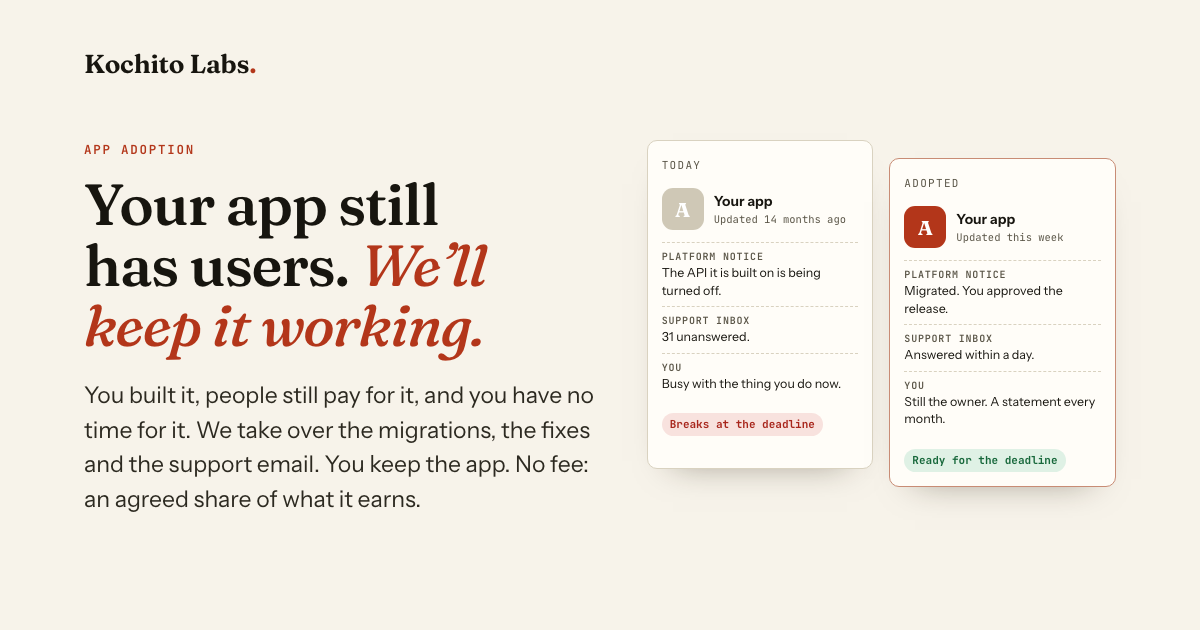
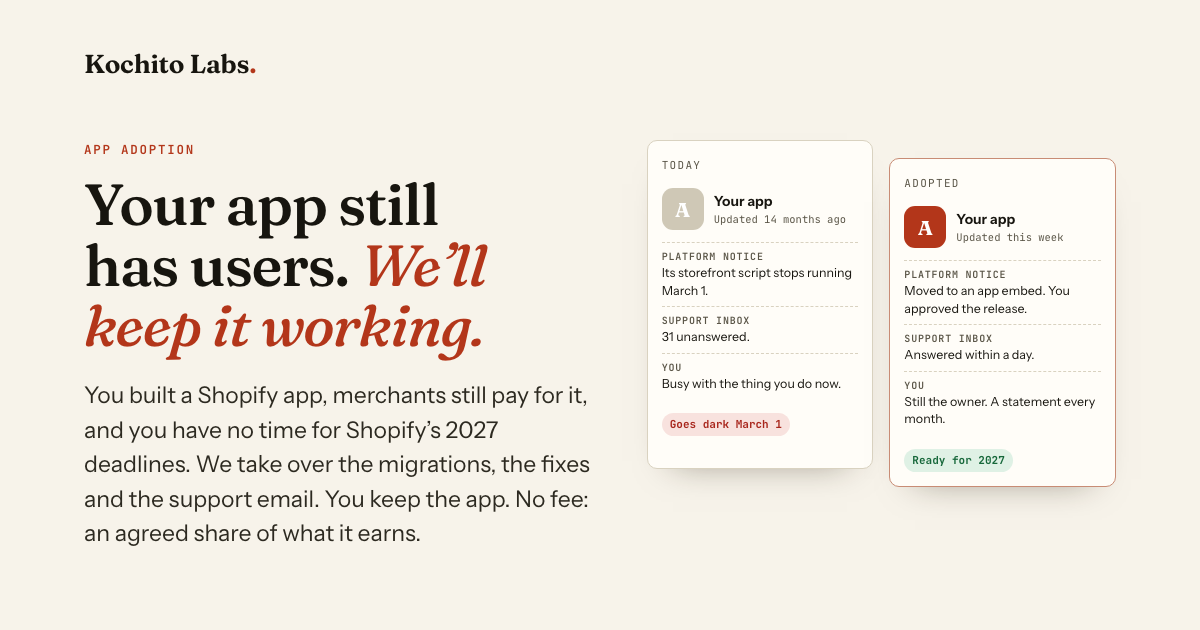
kochito /apps: Shopify's real dates, and Shopify only. Read from Shopify's developer changelog: since October 1, 2026 no app can create script tags; January 1, 2027 public apps on non-expiring offline tokens are delisted; March 1 script tags stop running on storefronts; April 1 the old tokens are re
Claude-Session: https://claude.ai/code/session_012SXcnn2YuX2WXNrf6GerJQ

diff --git a/src/app/kochito/apps/page.tsx b/src/app/kochito/apps/page.tsx
@@ -7,8 +7,8 @@ import { Foot, Top } from '../Chrome'
 // has users and no longer has their time: we keep it working for a share of
 // what it earns. Facts on this page are sourced in apps/venture (private
 // notes); change them there first.
-const TITLE = 'We keep your app working, for a share of what it earns'
-const DESCRIPTION = 'You built an app, people still use it, and you have no time for it. We do the platform migrations, the fixes and the support. No fee: a share of revenue, and you keep the app.'
+const TITLE = 'We keep your Shopify app working, for a share of what it earns'
+const DESCRIPTION = 'You built a Shopify app, merchants still pay for it, and you have no time for it. We do the 2027 migrations, the fixes and the support. No fee: a share of revenue, and you keep the app.'
 
 export const metadata: Metadata = {
   title: 'App adoption',
@@ -30,18 +30,18 @@ export default function AppAdoption() {
               Your app still has users. <em>We’ll keep it working.</em>
             </h1>
             <p className="kl-lede">
-              You built it, people still pay for it, and you have no time for it. We take over the migrations, the fixes and the support email. You keep the app. No fee: an agreed share of what it earns.
+              You built a Shopify app, merchants still pay for it, and you have no time for Shopify’s 2027 deadlines. We take over the migrations, the fixes and the support email. You keep the app. No fee: an agreed share of what it earns.
             </p>
             <LeadForm
               page="apps"
               emailPlaceholder="you@yourapp.com"
               detailLabel="Link to the app"
               detailPlaceholder="https://apps.shopify.com/your-app"
-              detailHint="A Shopify App Store or Apple App Store link. Leave it empty if you would rather talk first."
+              detailHint="Your Shopify App Store listing. Leave it empty if you would rather talk first."
               button="Check my app, free"
               done="Your app’s report will be in your inbox within one business day."
             />
-            <p className="kl-fine">The report is yours whether or not you ever talk to us again: what breaks at the next platform deadline, what reviewers say is broken now, and what fixing it involves.</p>
+            <p className="kl-fine">The report is yours whether or not you ever talk to us again: which of Shopify’s dates hit your app, what reviewers say is broken now, and what fixing it involves.</p>
           </div>
 
           <figure className="kl-pic">
@@ -60,7 +60,7 @@ export default function AppAdoption() {
                 <ul className="kl-log">
                   <li>
                     <b>Platform notice</b>
-                    The API it is built on is being turned off.
+                    Its storefront script stops running March 1.
                   </li>
                   <li>
                     <b>Support inbox</b>
@@ -71,7 +71,7 @@ export default function AppAdoption() {
                     Busy with the thing you do now.
                   </li>
                 </ul>
-                <span className="kl-chip bad">Breaks at the deadline</span>
+                <span className="kl-chip bad">Goes dark March 1</span>
               </div>
               <div className="kl-sheet kl-after">
                 <p className="kl-sheet-tag">
@@ -87,7 +87,7 @@ export default function AppAdoption() {
                 <ul className="kl-log">
                   <li>
                     <b>Platform notice</b>
-                    Migrated. You approved the release.
+                    Moved to an app embed. You approved the release.
                   </li>
                   <li>
                     <b>Support inbox</b>
@@ -98,7 +98,7 @@ export default function AppAdoption() {
                     Still the owner. A statement every month.
                   </li>
                 </ul>
-                <span className="kl-chip good">Ready for the deadline</span>
+                <span className="kl-chip good">Ready for 2027</span>
               </div>
             </div>
             <figcaption>A drawing, not a customer. The free report on your own app says what is true for it.</figcaption>
@@ -125,6 +125,29 @@ export default function AppAdoption() {
                 <p>You give access to the code. Every change is a pull request you can read, and nothing ships until you say so. Support email forwards to us.</p>
               </li>
             </ol>
+          </div>
+        </section>
+
+        <section className="kl-band" aria-labelledby="dates">
+          <div className="kl-wrap kl-two">
+            <div>
+              <h2 id="dates">Shopify’s dates</h2>
+              <p>Two changes land in early 2027, and an app nobody is maintaining will miss both. Since October 1, 2026, apps can no longer create script tags, so an app that depends on them has been broken for every new install since then.</p>
+              <p>Merchants on a broken app keep being billed until they notice. Then come the one-star reviews and the cancellations. Both migrations are ordinary code work; they just need someone to do them.</p>
+            </div>
+            <div className="kl-fact">
+              <dl>
+                <dt>January 1, 2027</dt>
+                <dd>Public apps still on non-expiring offline access tokens are delisted and blocked from new installs.</dd>
+                <dt>March 1, 2027</dt>
+                <dd>Shopify stops running script tags on storefronts. The replacement is an app embed.</dd>
+                <dt>April 1, 2027</dt>
+                <dd>Admin API calls made with non-expiring tokens are refused.</dd>
+              </dl>
+              <p className="src">
+                Sources: Shopify’s developer changelog, <a href="https://shopify.dev/changelog/online-store-script-tags-deprecation">script tags</a> (August 24, 2026) and <a href="https://shopify.dev/changelog/posts/expiring-offline-access-tokens-required-for-all-public-apps-as-of-january-1-2027">expiring access tokens</a> (May 20, 2026). Shopify has said it will look at the March date again in January.
+              </p>
+            </div>
           </div>
         </section>
 
@@ -157,7 +180,7 @@ export default function AppAdoption() {
               <h2>Questions</h2>
               <details>
                 <summary>Which apps do you take?</summary>
-                <p>Shopify apps and iPhone apps with paying users, built by one person or a small team who have moved on to other work. If yours is something else, send it anyway and we will say plainly whether we can help.</p>
+                <p>Shopify apps with paying merchants, built by one person or a small team who have moved on to other work. If yours is something else, an iPhone app for example, send it anyway and we will say plainly whether we can help.</p>
               </details>
               <details>
                 <summary>What access do you need?</summary>
@@ -176,7 +199,7 @@ export default function AppAdoption() {
         </section>
 
         <section className="kl-wrap kl-close">
-          <h2>Find out what breaks, and when.</h2>
+          <h2>Find out which dates hit your app.</h2>
           <p className="kl-lede" style={{ margin: '0 auto 14px' }}>
             The report is free and takes you one link.
           </p>

diff --git a/src/app/kochito/page.tsx b/src/app/kochito/page.tsx
@@ -25,7 +25,7 @@ export default function KochitoHome() {
           </a>
           <a className="kl-door kl-apps" href="/apps">
             <h2>App adoption</h2>
-            <p>For the app you built and no longer have time for. We keep it working through the platform deadlines, for a share of what it earns. You keep the app.</p>
+            <p>For the Shopify app you built and no longer have time for. We keep it working through Shopify’s 2027 deadlines, for a share of what it earns. You keep the app.</p>
             <span className="go">Check an app →</span>
           </a>
         </div>
